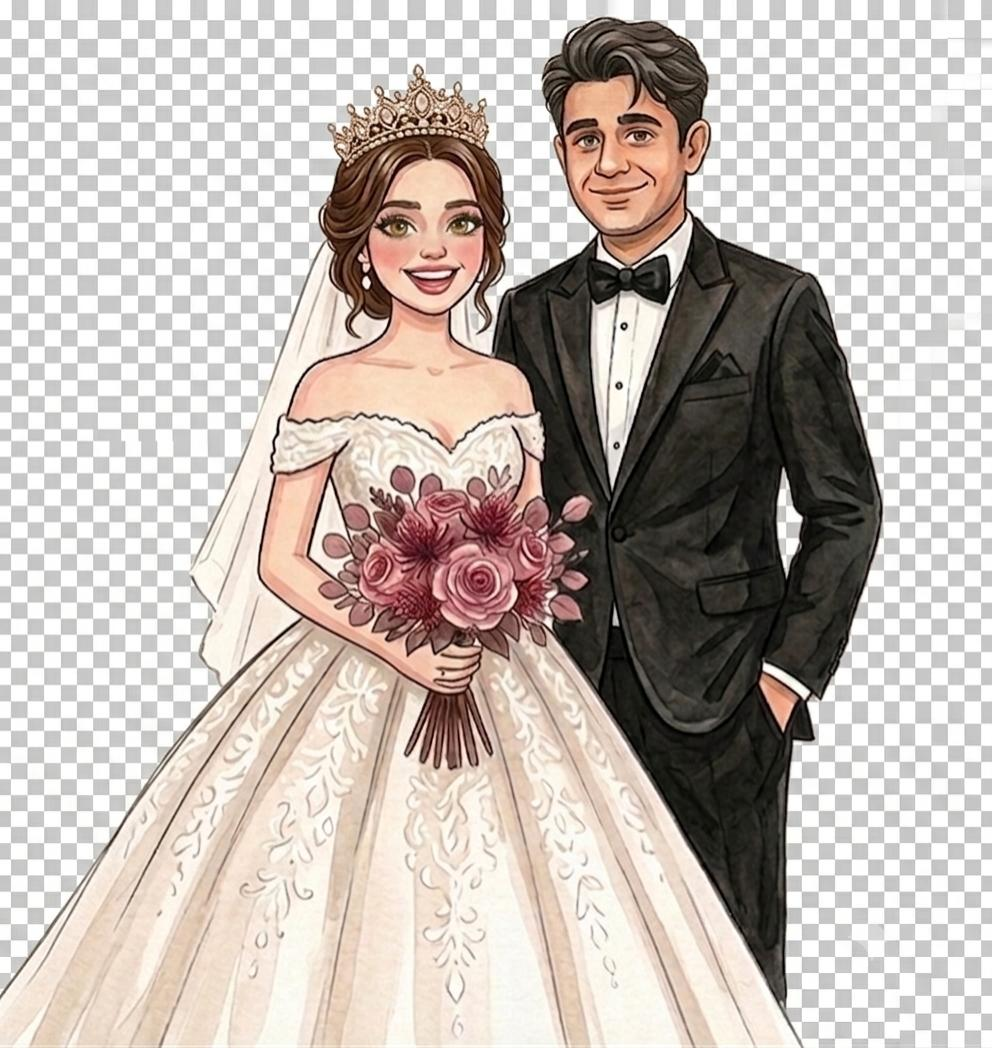
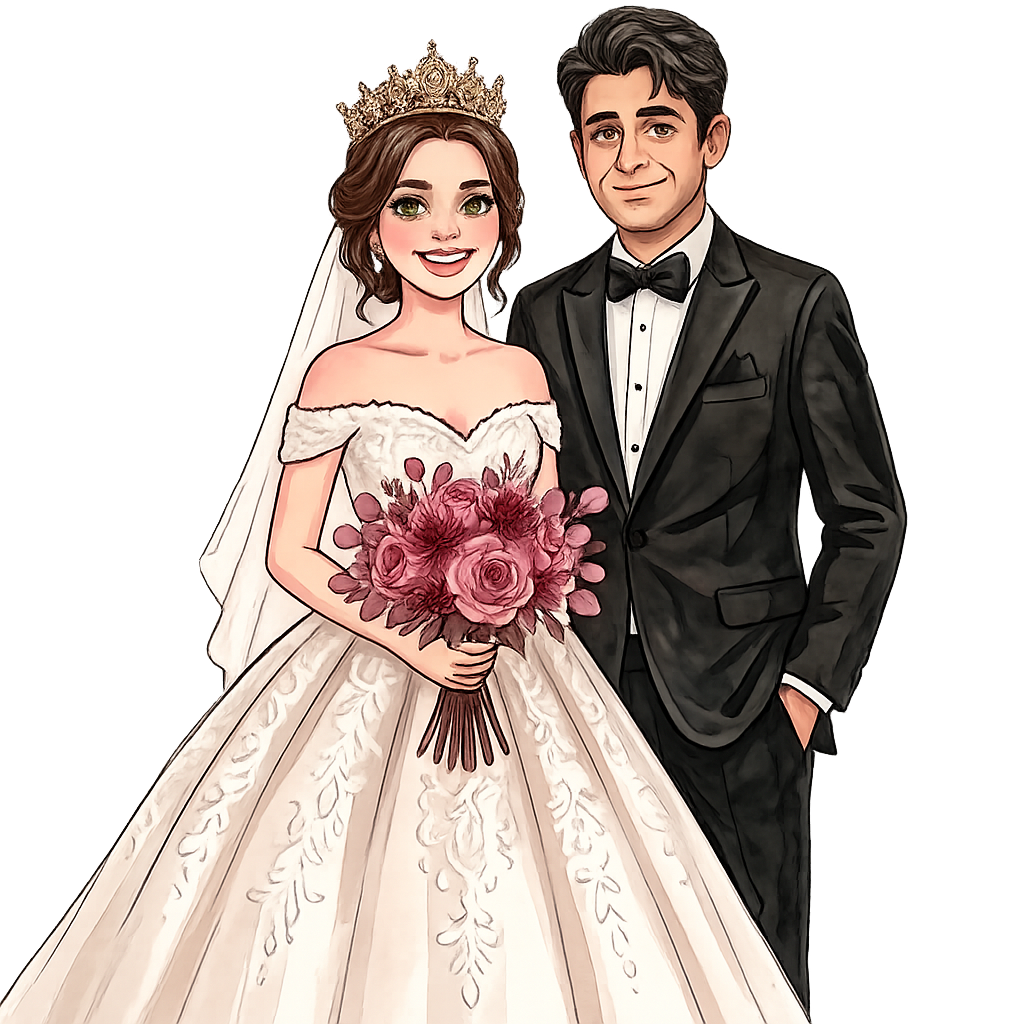
Update cache busters for index.html and amira pic to ensure fresh loading on GitHub Pages

diff --git a/New_Prem9/js/index-CNWoJd7e.beautified.js b/New_Prem9/js/index-CNWoJd7e.beautified.js
@@ -22528,7 +22528,7 @@ const S8 = "2b66b518-489b-4982-af38-67ec60286a6d",
     N8 = 1,
     O8 = "017d1b9c-0383-4586-93ce-2feee007ed4d",
     I8 = "cc720d6a-88ef-4db6-82b2-9219d43a20b8",
-    $8 = "assets/l5e-images/pic_amira.jpg?v=last_amira_pic",
+    $8 = "assets/l5e-images/pic_amira.jpg?v=last_amira_pic_v2",
     D8 = "a/v1/cc720d6a-88ef-4db6-82b2-9219d43a20b8/017d1b9c-0383-4586-93ce-2feee007ed4d/welcome-chateau.png",
     M8 = "welcome-chateau.png",
     L8 = 326899,

diff --git a/New_Prem9/js/index-CNWoJd7e.js b/New_Prem9/js/index-CNWoJd7e.js
@@ -22528,7 +22528,7 @@ const S8 = "2b66b518-489b-4982-af38-67ec60286a6d",
     N8 = 1,
     O8 = "017d1b9c-0383-4586-93ce-2feee007ed4d",
     I8 = "cc720d6a-88ef-4db6-82b2-9219d43a20b8",
-    $8 = "assets/l5e-images/pic_amira.jpg?v=last_amira_pic",
+    $8 = "assets/l5e-images/pic_amira.jpg?v=last_amira_pic_v2",
     D8 = "a/v1/cc720d6a-88ef-4db6-82b2-9219d43a20b8/017d1b9c-0383-4586-93ce-2feee007ed4d/welcome-chateau.png",
     M8 = "welcome-chateau.png",
     L8 = 326899,

diff --git a/js/index-CNWoJd7e.beautified.js b/js/index-CNWoJd7e.beautified.js
@@ -22528,7 +22528,7 @@ const S8 = "2b66b518-489b-4982-af38-67ec60286a6d",
     N8 = 1,
     O8 = "017d1b9c-0383-4586-93ce-2feee007ed4d",
     I8 = "cc720d6a-88ef-4db6-82b2-9219d43a20b8",
-    $8 = "assets/l5e-images/pic_amira.jpg?v=last_amira_pic",
+    $8 = "assets/l5e-images/pic_amira.jpg?v=last_amira_pic_v2",
     D8 = "a/v1/cc720d6a-88ef-4db6-82b2-9219d43a20b8/017d1b9c-0383-4586-93ce-2feee007ed4d/welcome-chateau.png",
     M8 = "welcome-chateau.png",
     L8 = 326899,

diff --git a/js/index-CNWoJd7e.js b/js/index-CNWoJd7e.js
@@ -22528,7 +22528,7 @@ const S8 = "2b66b518-489b-4982-af38-67ec60286a6d",
     N8 = 1,
     O8 = "017d1b9c-0383-4586-93ce-2feee007ed4d",
     I8 = "cc720d6a-88ef-4db6-82b2-9219d43a20b8",
-    $8 = "assets/l5e-images/pic_amira.jpg?v=last_amira_pic",
+    $8 = "assets/l5e-images/pic_amira.jpg?v=last_amira_pic_v2",
     D8 = "a/v1/cc720d6a-88ef-4db6-82b2-9219d43a20b8/017d1b9c-0383-4586-93ce-2feee007ed4d/welcome-chateau.png",
     M8 = "welcome-chateau.png",
     L8 = 326899,

diff --git a/index.html b/index.html
@@ -24,6 +24,6 @@
 </head>
 <body>
     <div id="root"></div>
-    <script type="module" crossorigin src="js/index-CNWoJd7e.js?v=amira20260731_photo1"></script>
+    <script type="module" crossorigin src="js/index-CNWoJd7e.js?v=amira20260731_photo2"></script>
 </body>
 </html>
